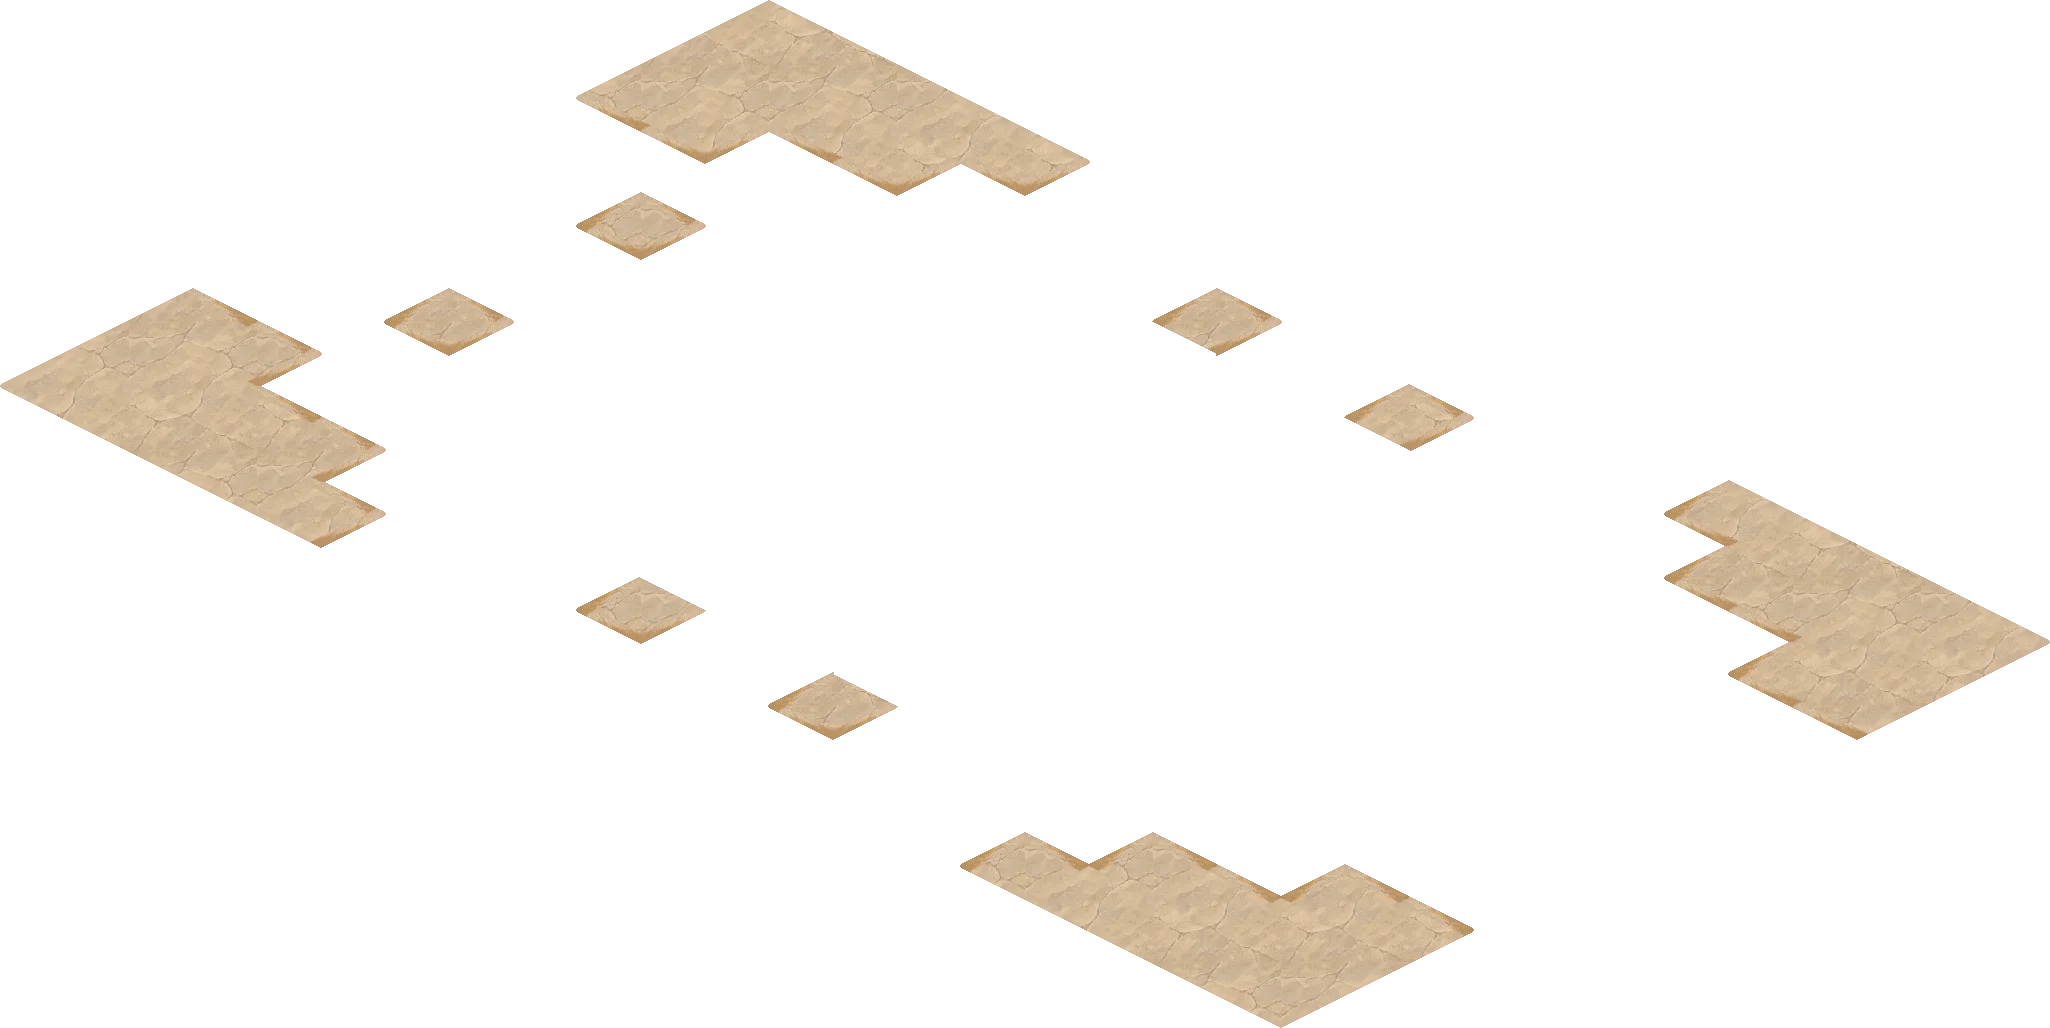
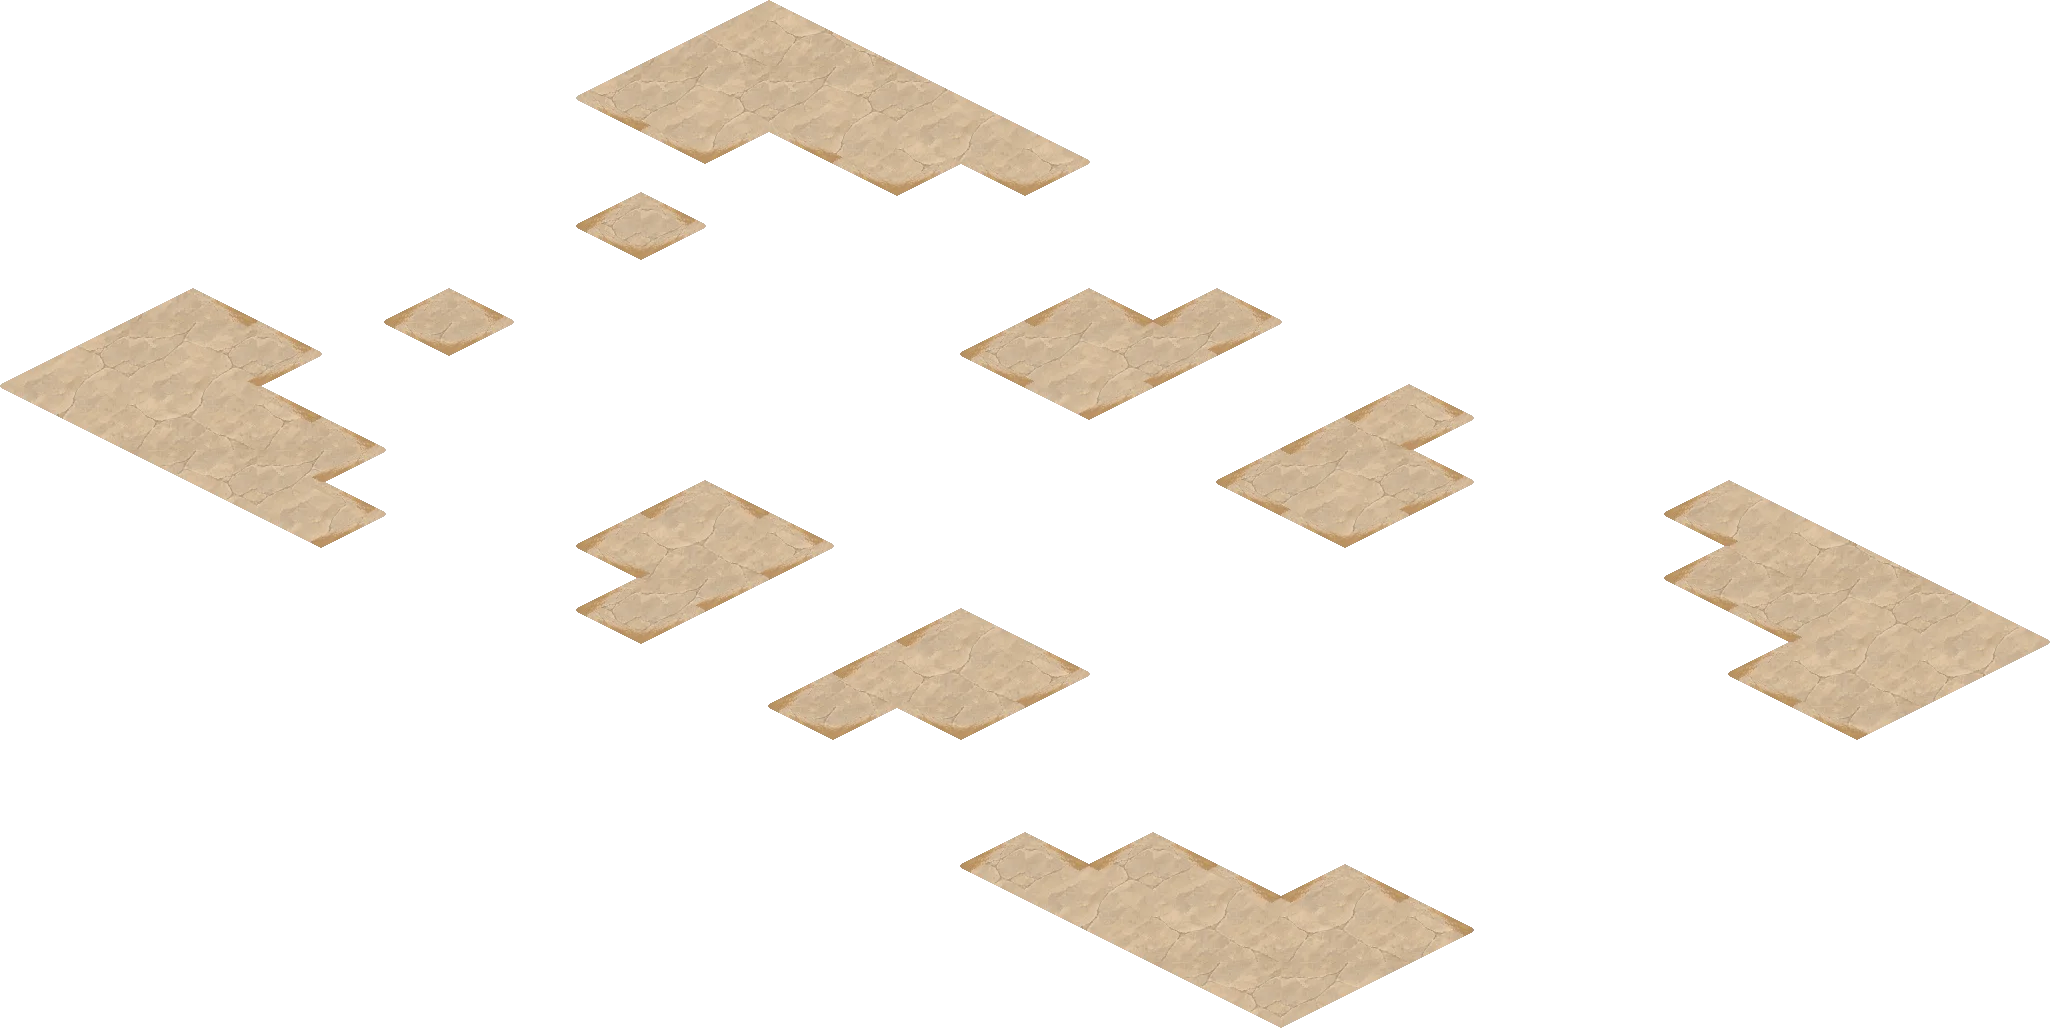
art: paint the quarry floor's spills on their own ground
The region packer left every dynamic cell transparent, so the Driller
floor's four oil pools and one mud patch were the only cells still flat:
procedural slate plates with the tile square for an outline, standing
beside illustrated stone.

A spill lies on the ground, so an oil slick now packs into the stone page
and a mud patch into the dirt page, exactly as rubble on stone already
did, and the live surface is still drawn over it at runtime. Water alone
keeps its transparent hole because its bed is authored with the liquid.

Repacked the Driller floor from the recorded source: stone 39,100 to
50,252 bytes, dirt-east 28,026 to 33,068, dirt-west 31,990 to 33,922 for
the new dirt-to-stone transitions. The Cutting has no oil or mud cell and
is untouched. quarryProjected.test.ts states the contract: water
transparent, spills opaque at the centre and across their boundaries.

Same fixture, both backends: the quarry floor moves 4.6-5.1% of pixels,
overwhelmingly lighter; village, road, gate and cutting frames move
0.000-0.021%.

diff --git a/src/content/scenes/quarryProjected.test.ts b/src/content/scenes/quarryProjected.test.ts
@@ -77,29 +77,24 @@ function pieceAlpha(piece: MapScene['ground'][number], world: { x: number; y: nu
 }
 
 describe('projected quarry scenes', () => {
-  it('covers dry authored centers and boundaries while leaving live surface interiors transparent', () => {
+  it('covers authored centers and boundaries, including the ground under a spill, leaving only water transparent', () => {
     for (const { map, scene } of routeScenes)
       for (let y = 0; y < map.height; y++)
         for (let x = 0; x < map.width; x++) {
           const key = map.rows[y]?.[x];
           const value = alpha(scene, point(x + 0.5, y + 0.5));
-          if (key === '~' || key === 'o' || key === 'm')
-            expect(value, `${map.id} live ${x},${y}`).toBeLessThan(8);
+          // Water keeps a transparent hole because its bed is authored with the
+          // liquid; oil and mud are opaque, so their own ground is painted and
+          // the live surface is drawn over it.
+          if (key === '~') expect(value, `${map.id} live water ${x},${y}`).toBeLessThan(8);
           else if (key !== '#') expect(value, `${map.id} dry ${x},${y}`).toBeGreaterThan(240);
-          if (key === '#' || key === '~' || key === 'o' || key === 'm') continue;
+          if (key === '#' || key === '~') continue;
           for (const [dx, dy] of [
             [1, 0],
             [0, 1],
           ] as const) {
             const neighbor = map.rows[y + dy]?.[x + dx];
-            if (
-              !neighbor ||
-              neighbor === '#' ||
-              neighbor === '~' ||
-              neighbor === 'o' ||
-              neighbor === 'm'
-            )
-              continue;
+            if (!neighbor || neighbor === '#' || neighbor === '~') continue;
             for (const inset of [-0.02, 0.02])
               expect(
                 alpha(scene, point(x + 0.5 + dx * (0.5 + inset), y + 0.5 + dy * (0.5 + inset))),
@@ -107,6 +102,29 @@ describe('projected quarry scenes', () => {
               ).toBeGreaterThan(240);
           }
         }
+  });
+
+  it('paints the quarry floor stone under every oil slick and the dirt under every mud patch', () => {
+    for (const [key, terrain] of [
+      ['o', 'stone'],
+      ['m', 'dirt'],
+    ] as const) {
+      const pieces = DRILLER_FLOOR_SCENE.ground.filter((piece) =>
+        piece.url.includes(terrain === 'stone' ? '/stone.webp' : '/dirt-'),
+      );
+      expect(pieces.length, `${key} pieces`).toBeGreaterThan(0);
+      let cells = 0;
+      for (let y = 0; y < QUARRY_FLOOR.height; y++)
+        for (let x = 0; x < QUARRY_FLOOR.width; x++) {
+          if (QUARRY_FLOOR.rows[y]?.[x] !== key) continue;
+          cells++;
+          expect(
+            pieces.some((piece) => pieceAlpha(piece, point(x + 0.5, y + 0.5)) > 240),
+            `${key} ${x},${y}`,
+          ).toBe(true);
+        }
+      expect(cells, `${key} cells`).toBeGreaterThan(0);
+    }
   });
   it('shares only the exterior surround underneath the two live floors', () => {
     expect(CUTTING_SCENE.ground.slice(0, 2)).toEqual(DRILLER_FLOOR_SCENE.ground.slice(0, 2));

diff --git a/scripts/art/quarry-route-ground.ts b/scripts/art/quarry-route-ground.ts
@@ -28,14 +28,23 @@ const panel = (index: number) =>
 const fields = [0, 1, 2].map((index) => scaleTo(panel(index), 128, 128));
 const transitions = [3, 4, 5].map((index) => scaleTo(panel(index), 128, 128));
 type Kind = 'dirt' | 'road' | 'stone' | 'dynamic' | 'void';
+/**
+ * The ground a cell stands on, which is the material its authored page carries.
+ *
+ * A spill lies *on* the ground, so an oil slick reads as stone and a mud patch
+ * as dirt: the live surface is still drawn over the page at runtime, but an
+ * opaque material no longer leaves the only unpainted hole in the floor beside
+ * illustrated ground. Water alone stays transparent — its bed is authored with
+ * the liquid and a painted page under a translucent film would compete with it.
+ */
 const kind = (key: string | undefined): Kind =>
   key === '='
     ? 'road'
-    : key === '^' || key === 'A' || key === 'r'
+    : key === '^' || key === 'A' || key === 'r' || key === 'o'
       ? 'stone'
-      : key === '~' || key === 'o' || key === 'm'
+      : key === '~'
         ? 'dynamic'
-        : key === '.' || key === ',' || key === 'c'
+        : key === '.' || key === ',' || key === 'c' || key === 'm'
           ? 'dirt'
           : 'void';
 /** Continuous source phase: reflection made visible herringbone chevrons at every repeat. */

diff --git a/src/content/scenes/quarryRouteGround.ts b/src/content/scenes/quarryRouteGround.ts
@@ -6,7 +6,7 @@ export const DRILLER_GROUND_REGIONS = [
     y: 94,
     width: 1218,
     height: 612,
-    bytes: 31990,
+    bytes: 33922,
   },
   {
     name: 'dirt-east',
@@ -14,7 +14,7 @@ export const DRILLER_GROUND_REGIONS = [
     y: 318,
     width: 1218,
     height: 612,
-    bytes: 28026,
+    bytes: 33068,
   },
   {
     name: 'stone',
@@ -22,7 +22,7 @@ export const DRILLER_GROUND_REGIONS = [
     y: -2,
     width: 2050,
     height: 1028,
-    bytes: 39100,
+    bytes: 50252,
   },
 ] as const;
 

diff --git a/docs/coordination/handoffs/quarry-floor-spill-ground.md b/docs/coordination/handoffs/quarry-floor-spill-ground.md
@@ -1,0 +1,86 @@
+# Handoff — the quarry floor's spilled ground, painted from the same material
+
+Owner: DeepSeek Flash interim run, 2026-09-21. Branch `codex/quarry-ledge-stone`,
+worktree `C:/Users/Jared/.codex/worktrees/quarry-ledge-stone`, based on the
+release head `5a2ee58` (PR #74, v0.2.10) because this closes a ground gap that
+release opened and the branch must merge after it.
+
+This is `docs/coordination/handoffs/surface-banks.md`'s recorded follow-up: the
+ground generator left every **dynamic** cell transparent, so the quarry floor's
+four oil pools and one mud patch were the only cells still painted flat — a
+slick of procedural slate standing beside illustrated stone (the "flat slate
+plates"), with the tile square for an outline.
+
+## What changed
+
+1. `scripts/art/quarry-route-ground.ts` maps a cell to the ground its material
+   stands on: `o` now packs into the **stone** page and `m` into **dirt**,
+   exactly as `r` (rubble on stone) already did. Water (`~`) alone keeps its
+   transparent hole, because its bed is authored with the liquid. Neighbouring
+   dirt joins an oil pool through the existing painted dirt↔stone transition.
+2. Repacked the Driller floor from the recorded source
+   (`exec-8dcfcdb5-…png`, SHA-256 `d15b808a…`) with
+   `node --import tsx scripts/art/quarry-route-ground.ts driller <source>`:
+   `stone.webp` 39,100 → 50,252 B, `dirt-east.webp` 28,026 → 33,068 B,
+   `dirt-west.webp` 31,990 → 33,922 B (the west page gains the transition band
+   along the pools it borders). `src/content/scenes/quarryRouteGround.ts` is
+   the packer's registration and matches the three files byte-for-byte.
+3. The Cutting was **not** repacked and is untouched: it has no oil or mud cell,
+   so its four regions and the shipped east page keep their bytes.
+4. `src/content/scenes/quarryProjected.test.ts` states the new contract: water
+   interiors stay transparent, oil and mud centres are opaque, every boundary
+   between dry cells and a spill is opaque, and every `o`/`m` cell resolves to
+   an opaque centre on the stone/dirt page. Six tests pass.
+5. `docs/art/cutting-driller-ground-registration.md` describes the rule.
+
+## Evidence on this head
+
+- **Frames, same fixture, both backends**
+  (`FNT_REVIEW_BROWSER_CHANNEL=chrome npx playwright test -c
+playwright.route-visual.config.ts`, 1368×912, canvas and WebGL, the whole route
+  at 64 and 96 px tiles). Against the same fixture captured from `5a2ee58`:
+  the quarry floor moves **4.572%** of pixels (canvas `battle_grumbler-fit`),
+  **5.128%** (`-64`), **4.912%** (WebGL `-fit`) and **4.665%** (WebGL `-64`),
+  and the moved pixels are overwhelmingly **lighter** (52,916 up / 4,119 down
+  on canvas `-fit`) — flat slate replaced by the illustrated stone the rest of
+  the board already uses.
+- **Nothing else moved.** The same capture moves 0.000% of
+  `battle_forest_road-fit` (canvas), 0.003–0.021% elsewhere, all of it
+  animation-timing noise below the 6-level threshold: the village, road, gate
+  and cutting frames are unchanged.
+- **Tradeoff recorded honestly.** The oil wash is a translucent coat over the
+  ground, so over light illustrated stone it reads as a damp grey apron rather
+  than the previous near-black quad. The hazard cell is still outlined and
+  still a different material from the surrounding dirt, but if a _darker_ slick
+  is wanted that is a liquid-material decision belonging with the reviewed
+  v0.2.3 surface treatment, not a ground-registration one. Crop pairs:
+  `.shots/oil-before.png` / `oil-after.png` in this worktree.
+- **Checks.** `npm run verify` green on the final tree, `npm run art:validate`
+  and `npm run check:assets` green, bundle budget unchanged (no product code).
+
+## Open, recorded honestly
+
+- The quarry floor still has no working furniture (crane, rails, carts, dressed
+  stone) and the raised `^`/`A` ledges are still reached by the procedural
+  elevation base; neither is claimed fixed here. The ledges sit outside the
+  combat camera's clamped frame, so a party-walk capture at play zoom is the
+  honest way to review them.
+- `scripts/art/soften-quarry-dirt-join.ts` is now documented as a historical
+  rescue: it ramps the east page again on every run, drifting it from the
+  packer's registration. Use the packer alone for future packs.
+- Not claimed: no playthrough, no listening, no physical device, no Large-text
+  check, no WebKit run, and no comparison against the approved reference beyond
+  the frames above.
+
+## Next action
+
+Do **not** open this branch's PR while PR #74's exact-head CI is running. Once
+#74 has merged, rebase `codex/quarry-ledge-stone` onto the merge commit, run
+`npm run verify` on the rebased head, and open one PR (the packer rule, the
+three repacked pages, the registration, the test and the two docs).
+
+## CI cost
+
+No push to `main`, no pull request, no workflow run, no dispatch, no re-run. The
+branch push triggers nothing (`push` is limited to `main`). Local only: three
+route-review captures (35 s each) and one `npm run verify`.

diff --git a/docs/art/cutting-driller-ground-registration.md b/docs/art/cutting-driller-ground-registration.md
@@ -84,11 +84,16 @@ The local region packs use the reviewed six-panel quarry source
 ImageGen directory. Its verified SHA-256 is
[1 lines of base64/hex data omitted]
 `scripts/art/quarry-route-ground.ts` derives transparent dirt, road and stone
-regions from authoritative rows for each map; water, oil and mud cells stay
-transparent for runtime surfaces. A two-pixel edge bleed is restricted away
-from those dynamic interiors. Cutting packs: dirt-west, dirt-east, road and
-stone. Driller packs: dirt-west, dirt-east and stone. The exterior surround,
-rims, rear loading strip, walls and props are independent registrations.
+regions from authoritative rows for each map. A cell is painted with the ground
+its material stands on: an oil slick takes the stone page and a mud patch the
+dirt page, and the live surface is still drawn over it at runtime, so no opaque
+spill leaves the only unpainted hole in the floor beside illustrated ground.
+Water alone stays transparent, because its bed is authored with the liquid and
+a painted page under a translucent film would compete with it. A two-pixel edge
+bleed is restricted away from those water interiors. Cutting packs: dirt-west,
+dirt-east, road and stone. Driller packs: dirt-west, dirt-east and stone. The
+exterior surround, rims, rear loading strip, walls and props are independent
+registrations.
 
 The east dirt page now takes over across a narrow logical `x=10` alpha ramp
 over the west page's existing bleed. This avoids a visible diagonal caused by
